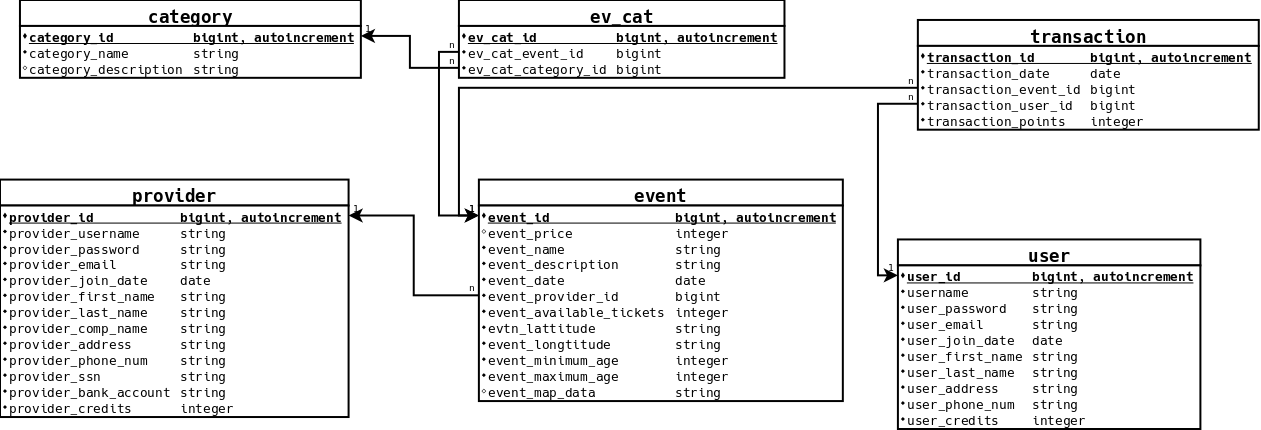
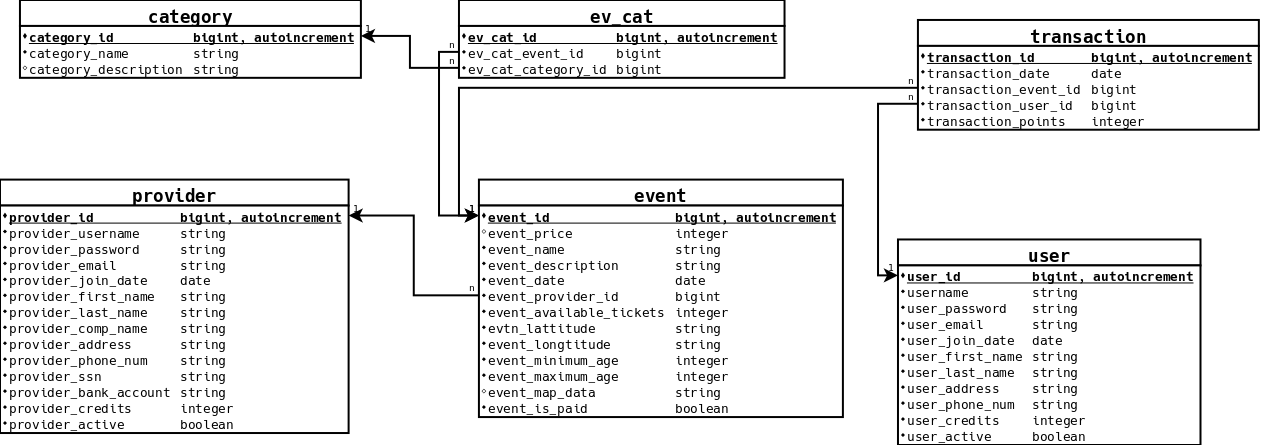
models.js, DB και ER Διγράμματα models.js: προσθήκη νέων πεδίων DB_Diagram: Προσθήκη νέων πεδίων ER_Diagram: Προσθήκη Attributes

diff --git a/backend/models.js b/backend/models.js
@@ -27,7 +27,8 @@ const Sequelize = require('sequelize')
         user_last_name : { type : Sequelize.STRING, allowNull : false },
         user_address : { type : Sequelize.STRING, allowNull : false },
         user_phone_num : { type : Sequelize.STRING, allowNull : false },
-        user_credits : { type : Sequelize.INTEGER, validate : { min : 0 } }
+        user_credits : { type : Sequelize.INTEGER, validate : { min : 0 } },
+        user_active : { type : Sequelize.BOOLEAN, allowNull : false, defaultValue : true }
     })
 
     , Provider = sequelize.define('provider' , {
@@ -44,6 +45,7 @@ const Sequelize = require('sequelize')
         provider_ssn : { type : Sequelize.STRING, allowNull : false, unique : true }, // Should use a custom validator
         provider_bank_account : { type : Sequelize.STRING, allowNull : false }, // Should use a custom validator
         provider_credits : { type : Sequelize.INTEGER, validate : { min : 0 } },
+        provider_active : { type : Sequelize.BOOLEAN, allowNull : false, defaultValue : false }
     })
 
     , Evnt = sequelize.define('event', {
@@ -58,7 +60,8 @@ const Sequelize = require('sequelize')
         event_longtitude : Sequelize.STRING,
         event_minimum_age : { type : Sequelize.INTEGER, defaultValue : 0 },
         event_maximum_age : { type : Sequelize.INTEGER, defaultValue : 99 },
-        event_map_data : Sequelize.STRING
+        event_map_data : Sequelize.STRING,
+        event_is_paid : { type : Sequelize.BOOLEAN, allowNull : false, defaultValue : false }
     })
 
     , Transaction = sequelize.define('transaction', {
